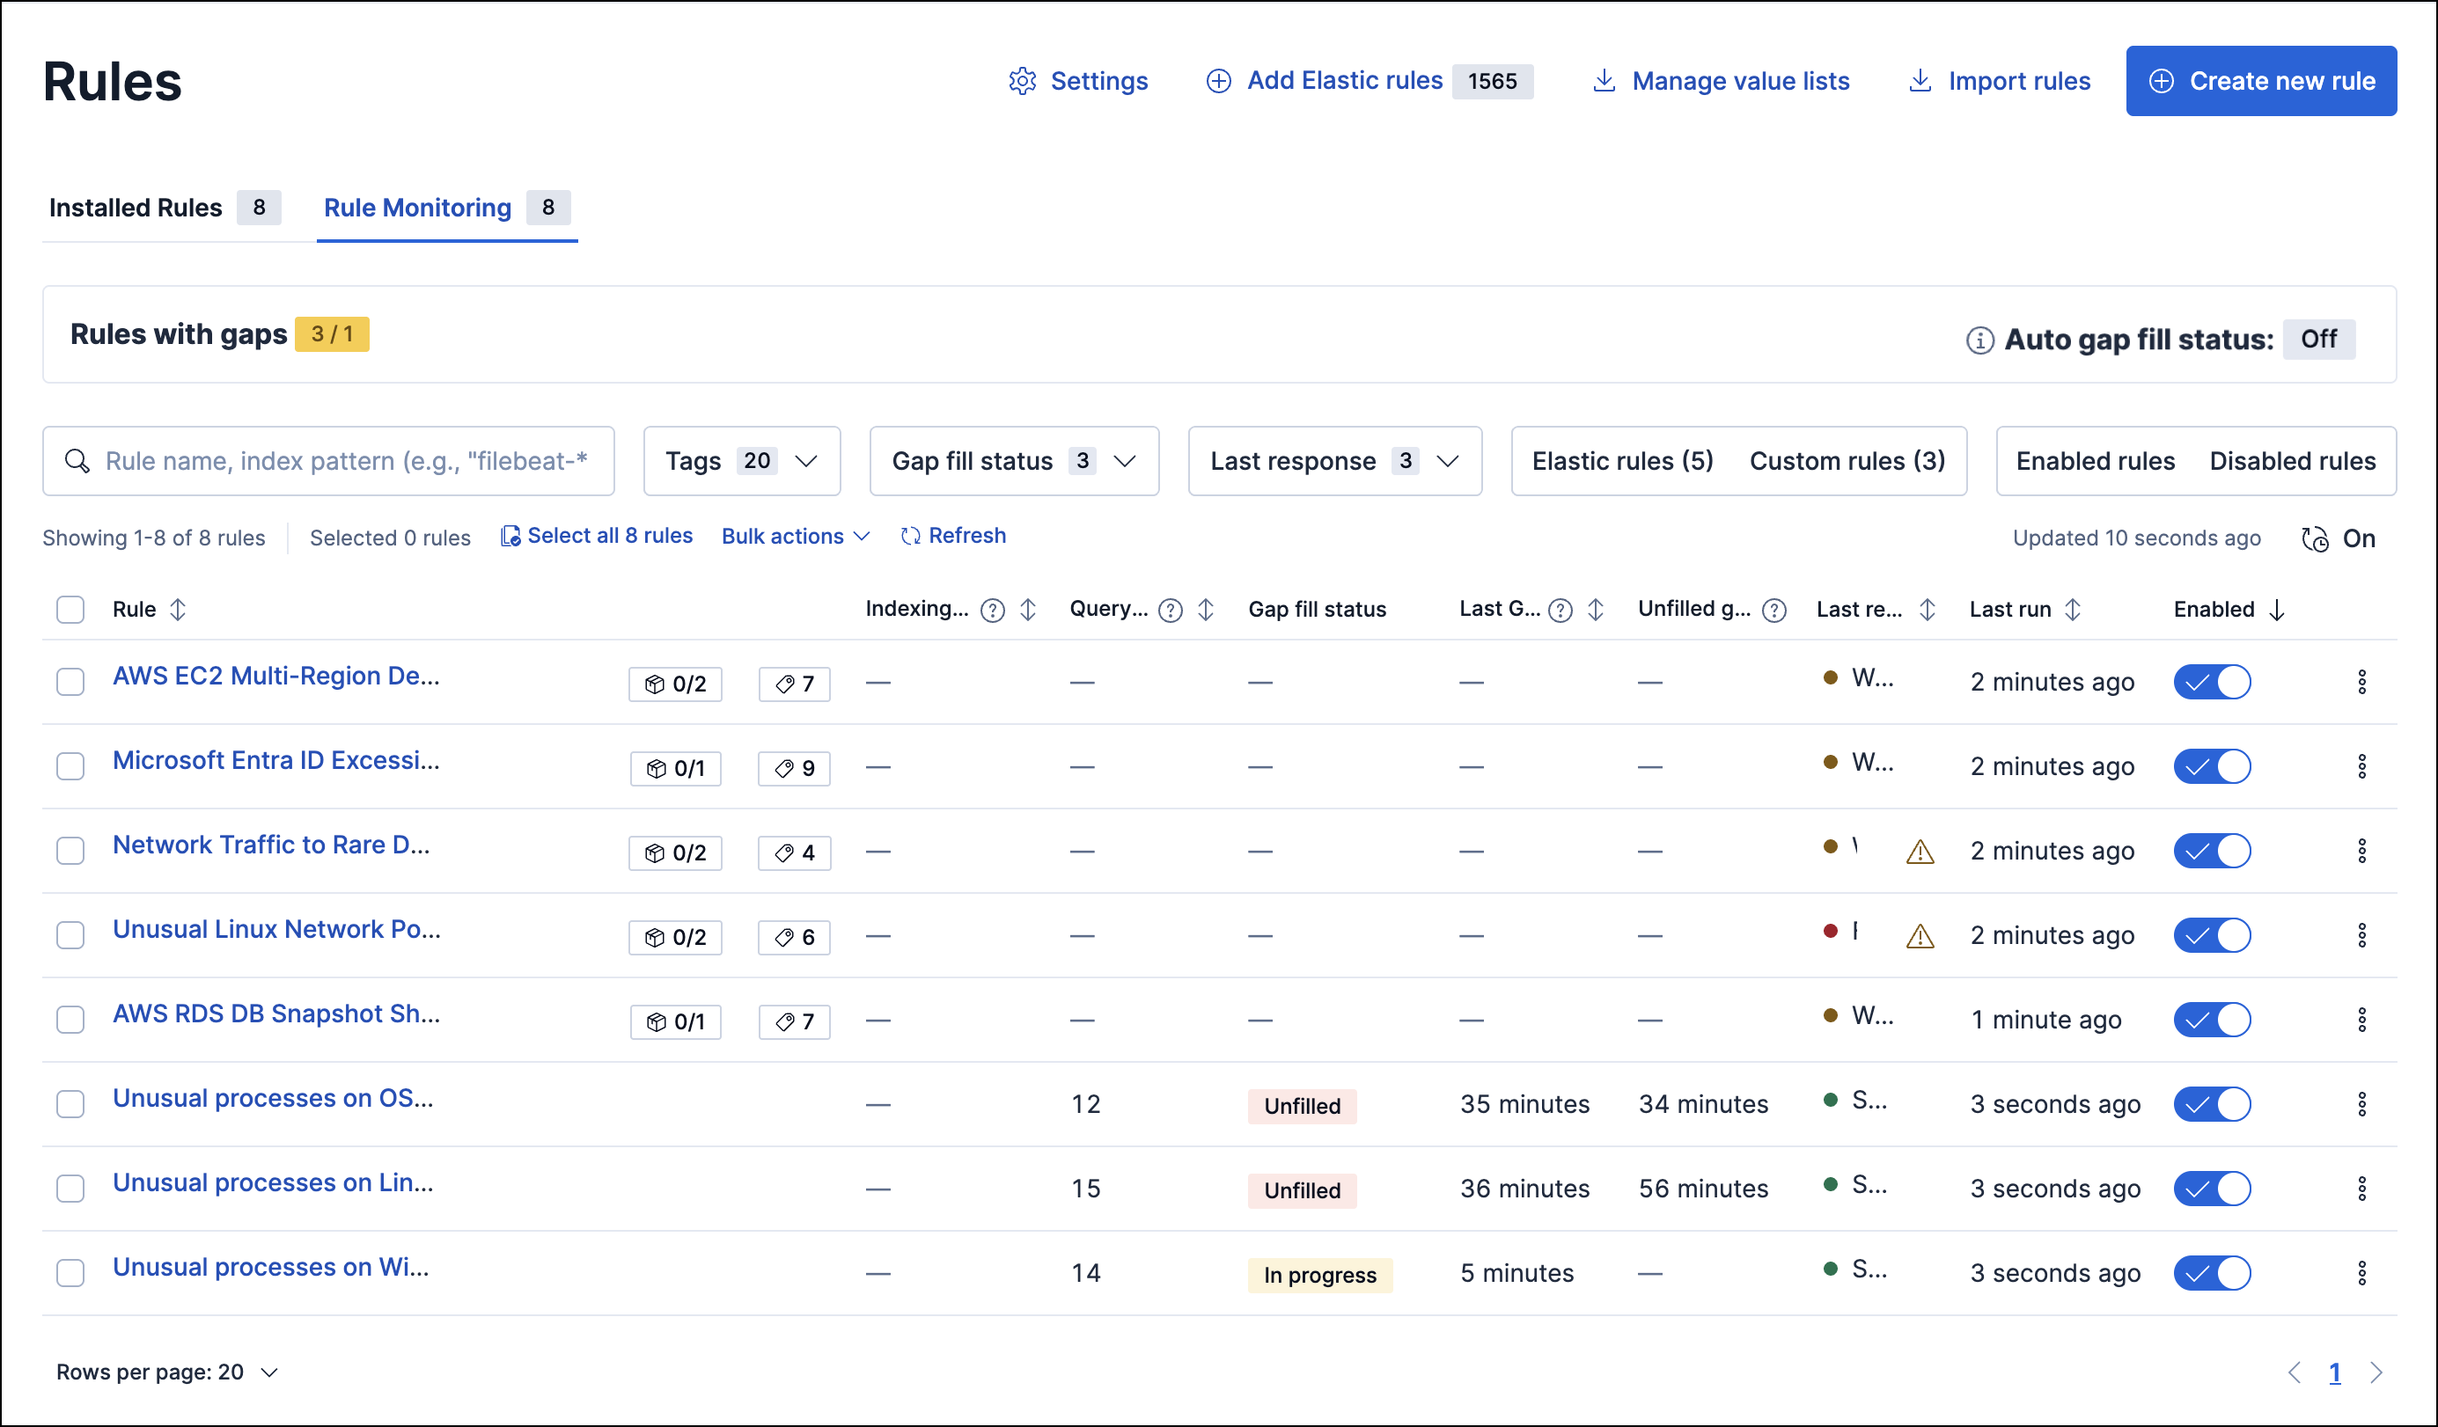
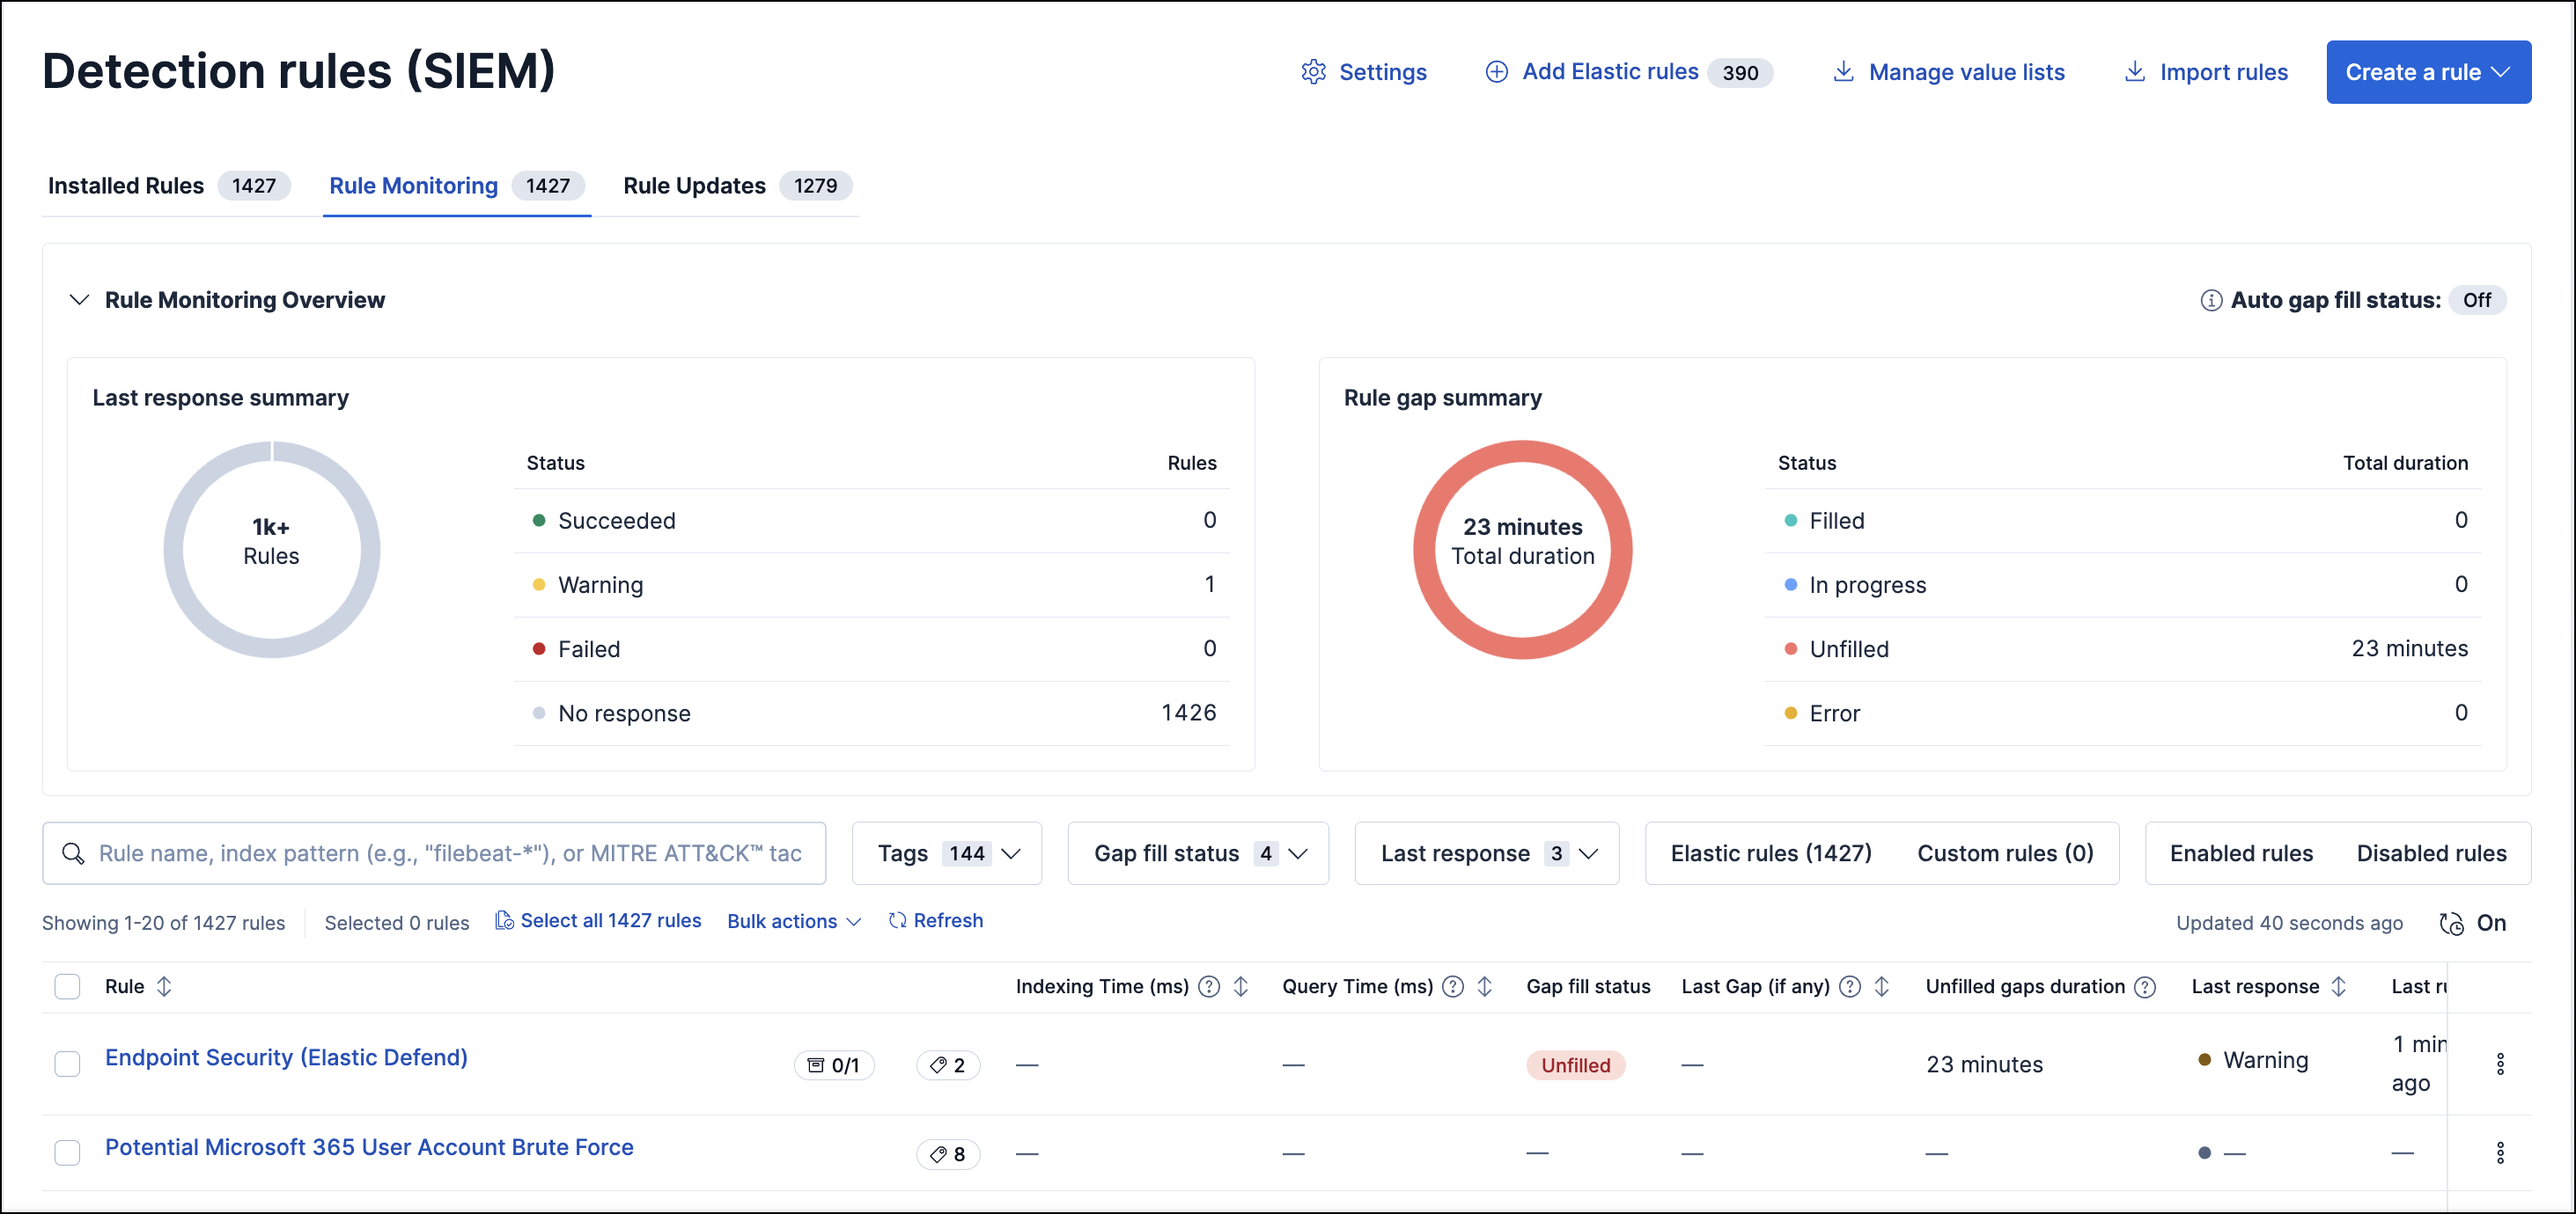
[Security][9.4 & Serverless][DE]: Adds docs for the gaps reason UI and `error` status (#5865)
<!--
Thank you for contributing to the Elastic Docs! 🎉
Use this template to help us efficiently review your contribution.
-->

## Summary
<!--
Describe what your PR changes or improves.  
If your PR fixes an issue, link it here. If your PR does not fix an
issue, describe the reason you are making the change.
-->

Fixes https://github.com/elastic/docs-content/issues/5789 and
https://github.com/elastic/docs-content/issues/5747 by adding docs for
the gaps reason UI and `error` status.

### Previews 
- [Fill rule execution gaps | Gap detection scope and gap
reasons](https://docs-v3-preview.elastic.dev/elastic/docs-content/pull/5865/solutions/security/detect-and-alert/fill-rule-gaps#gap-detection-scope-and-gap-reasons)
- New section that explains how to view and understand the gap detection
scope and reasons.
- [Find gaps | Rule Monitoring
tab](https://docs-v3-preview.elastic.dev/elastic/docs-content/pull/5865/solutions/security/detect-and-alert/fill-rule-gaps#rule-monitoring-tab-gaps)
- Restructured the "Rule Monitoring tab" section so there's now a
dedicated section for gap statuses.

## Generative AI disclosure
<!--
To help us ensure compliance with the Elastic open source and
documentation guidelines, please answer the following:
-->
1. Did you use a generative AI (GenAI) tool to assist in creating this
contribution?
- [x] Yes  
- [ ] No  
<!--
2. If you answered "Yes" to the previous question, please specify the
[…]

diff --git a/solutions/security/detect-and-alert/fill-rule-gaps.md b/solutions/security/detect-and-alert/fill-rule-gaps.md
@@ -50,16 +50,34 @@ The panel displays:
 
 ::::
 
-Within the Rules table, several columns provide additional gap data:
 
-* **Last Gap (if any)**: Shows how long the most recent gap for a particular rule lasted.
-* **Unfilled gaps duration**: Shows whether a rule still has gaps and provides a total sum of the remaining unfilled or partially filled gaps. The total can change based on the time range you select (data on gaps older than 90 days is not retained). If a rule has no gaps, the column displays a dash (`––`).
-* {applies_to}`stack: ga 9.3+` **Gap fill status**: Shows the status of the rule's gaps (`Unfilled`, `In progress`, or `Filled`).
+{applies_to}`stack: ga 9.4+` {applies_to}`serverless: ga` The **Rules with gaps** overview above the Rules table is expanded by default so you can review gap metrics without opening the section first.
 
-    ::::{tip}
-    :applies_to:{stack: ga 9.3+}
-    Use the **Gap fill status** filter in the Rules table to find rules with a specific gap status.
-    ::::
+#### Gap information [gap-information]
+
+Within the **Rule Monitoring** tab **Rules** table, several columns provide gap data:
+
+| Column | Description |
+|--------|-------------|
+| Gap fill status | {applies_to}`stack: ga 9.3+` Shows whether unfilled gaps remain, a gap-fill run is in progress, every gap is filled, and more. Refer to the [Gap status](#gap-fill-status) table for the available statuses. |
+| Last Gap (if any) | How long the most recent gap lasted. |
+| Unfilled gaps duration | Total duration of remaining unfilled or partially filled gaps. The total can change based on the time range you select (data on gaps older than 90 days is not retained). If a rule has no gaps, the column displays a dash (`––`). |
+
+#### Gap fill status [gap-fill-status]
+
+```yaml {applies_to}
+stack: ga 9.3+
+```
+
+The following table breaks down the available **Gap fill status** values.
+
+| Status | Description |
+|--------|-------------|
+| Unfilled | The rule still has gaps that aren't fully filled. There are also no manual runs or automatic gap fill runs actively filling them. |
+| In progress | At least one gap is being filled by a manual run or an automatic gap fill run. |
+| Filled | Every gap for the rule is fully filled. |
+| Error | {applies_to}`stack: ga 9.4+` Automatic gap fill is on, but a gap still remains unfilled after automatic retries. When automatic gap fill is off, `Unfilled` displays instead of `Error`. <br><br>  When automatic gap fill is on, use the **Gap fill status** filter in the Rules table to find rules with the `Error` status. They may need manual follow-ups after retries are exhausted.|
+
 
 ### Gaps table [gaps-table]
 
@@ -83,6 +101,7 @@ The Gaps table has the following columns:
 | Column | Description |
 |---|---|
 | Status | The current state of the gap: `Filled`, `Partially filled`, or `Unfilled`. |
+| {applies_to}`stack: ga 9.4+` Reason | Why the gap occurred, when [gap reason detection](#gap-detection-scope-and-gap-reasons) is enabled. Typical values are **Rule was disabled** and **Rule did not run**. |
 | Detected at | When the gap was first discovered. |
 | Manual fill tasks | The status of the manual run filling the gap. For details, refer to the [Manual runs table](/solutions/security/detect-and-alert/manage-detection-rules.md#manual-runs-table). |
 | Event time covered | How much progress the manual run has made filling the gap. |
@@ -115,7 +134,7 @@ From the Rules table, fill gaps for multiple rules using the **Fill gaps** bulk 
 
     * Fill rules with unfilled or partially filled gaps: Select the appropriate rules or all rules on the page, then select **Bulk actions** > **Fill gaps**.
     * Only fill rules with unfilled gaps: Filter for rules with unfilled gaps:
-       - {applies_to}`stack: ga 9.3+` Use the **Gap fill status** filter in the Rules table to find rules with the `Unfilled` gap status, then select **Bulk actions** > **Fill gaps**.
+       - {applies_to}`stack: ga 9.3+` Use the **Gap fill status** filter in the Rules table to find rules with the `Unfilled` gap status{applies_to}`stack: ga 9.4+`{applies_to}`serverless: ga` (or `Error` if automatic gap fill has exhausted retries and you want to try manual fills), then select **Bulk actions** > **Fill gaps**.
        - {applies_to}`stack: ga 9.1-9.2` In the panel above the table, select the **Only rules with unfilled gaps** filter to show only rules with unfilled gaps (excludes rules with gaps currently being filled). Select the appropriate rules, then select **Bulk actions** > **Fill gaps**.
 
 3. Specify when to start and end the manual run that fills the gaps.
@@ -147,9 +166,46 @@ When enabled, the automatic gap fill feature runs a job every two minutes to che
 The **Auto gap fill status** field (in the panel above the Rules table) shows whether automatic gap fill is on or off. Select the field value to access the settings.
 ::::
 
+### Gap detection scope and gap reasons [gap-detection-scope-and-gap-reasons]
+
+```{applies_to}
+stack: ga 9.4+
+serverless: ga
+```
+
+Gap reasons are available only after you select **Include gaps created when a rule was disabled** in **Settings** (above the Rules table). With that option on, gaps can record *why* they occurred, and you can control how those reasons participate in gap monitoring and automatic gap filling.
+
+:::{admonition} Required privileges
+
+* **Settings** (above the Rules table) — Your role must include the right detection rule permissions and access to **Advanced Settings** in {{kib}}. If **Settings** is missing or options are read-only, ask an administrator to update your privileges.
+* **Gap detection scope** — Changing this requires `All` privileges for the **Advanced Settings** [{{kib}} feature](/deploy-manage/users-roles/cluster-or-deployment-auth/kibana-privileges.md). Saving your changes updates the gap auto-fill scheduler.
+
+The description at the top of the modal that opens when you select **Settings** reflects your access, which can be access to gap monitoring only, or access to both the gap monitoring and automatic gap fill features.
+
+:::
+
+Gap reasons describe the source of a gap. It can be either of the following:
+
+* **Rule was disabled** - The rule was off during part of the gap interval.
+* **Rule did not run** - The rule did not execute, for example, when {{kib}} was not available.
+
+These values appear in the **Reason** column on the **Execution results** tab (and in related filters). They also drive which gaps are included in the **Rules with gaps** overview and in automatic gap fill.
+
+The **Gap detection scope** applies to the whole {{kib}} space. Use it to include or exclude gaps that occurred while a rule was turned off. By default, those gaps are excluded from the overview and from automatic gap fill because they often reflect planned maintenance rather than an unexpected detection failure.
+
+When gaps from disabled rules are excluded, the **Fill gaps** bulk action shows a reminder that rules with that gap type won't be filled.
+
+::::{note}
+The **Gap fill status** value `Error` means automatic gap fill has reached the maximum retry limit for a gap and the gap is still not filled. It's not derived from **Gap detection scope**, which only controls which gaps are monitored and filled.
+::::
+
 ### Monitor automatic gap fill
 
-Details about the automatic gap fill job and scheduled tasks are captured in the gap fill scheduler logs. Access the logs by selecting **Gap fill scheduler** in the **Auto gap fill settings** section (above the Rules table).
+```{applies_to}
+stack: ga 9.3+
+```
+
+Details about the automatic gap fill job and scheduled tasks are captured in the gap fill scheduler logs. Access the logs by selecting **Gap fill scheduler** in the **Auto gap fill status** section (above the Rules table).
 
 In the scheduler logs table, expand rows to learn more about gaps discovered and tasks scheduled each time the job ran. Key details include:
 

diff --git a/solutions/security/detect-and-alert/monitor-rule-executions.md b/solutions/security/detect-and-alert/monitor-rule-executions.md
@@ -56,18 +56,9 @@ To sort the rules list, select any column header. To sort in descending order, s
 
 For detailed information on a rule, the alerts it generated, and associated errors, select its name in the table. This also allows you to perform the same actions available on the [**Installed Rules** tab](manage-detection-rules.md), such as modifying or deleting rules, activating or deactivating rules, exporting or importing rules, and duplicating prebuilt rules.
 
-### Gap information
+### Gap information [gap-information]
 
-The **Rule Monitoring** tab also displays information about gaps in rule executions. Gaps are periods when a rule didn't run as scheduled.
-
-Several columns provide gap data:
-
-* **Last Gap (if any)**: How long the most recent gap lasted.
-* **Unfilled gaps duration**: Total duration of remaining unfilled or partially filled gaps. If a rule has no gaps, the column displays a dash (`––`).
-* {applies_to}`stack: ga 9.3+` **Gap fill status**: The status of the rule's gaps (`Unfilled`, `In progress`, or `Filled`).
-
-To learn how to find and fill gaps, refer to [Fill rule execution gaps](/solutions/security/detect-and-alert/fill-rule-gaps.md).
-
+The **Rule Monitoring** tab also displays information about gaps in rule executions. For more information, refer to [Gap information](/solutions/security/detect-and-alert/fill-rule-gaps.md#gap-information).
 
 ## Execution results tab [rule-execution-logs]
 
@@ -77,7 +68,7 @@ From the **Execution results** tab on a **rule's details page**, you can review 
 
 ::::{applies-switch}
 
-:::{applies-item} { stack: ga 9.4+, serverless: ga }
+:::{applies-item} { stack: ga 9.4+ }
 
 Each detection rule execution is logged with status, timing, and how many alerts the run produced. The table helps you understand rule performance and troubleshoot failures.
 
@@ -149,7 +140,6 @@ Use these controls to filter what's included in the table:
 ### Execution details flyout [execution-details-flyout]
 ```yaml {applies_to}
 stack: ga 9.4+
-serverless: ga
 ```
 
 The execution details flyout displays additional timing, indexing, and gap details for the selected run. Use it to get a better understanding of that run, including errors and warnings, the number of candidate detections that became stored alerts, which indices were searched, and more. To open the execution details flyout, select **View details** on a row in the Execution log table.
